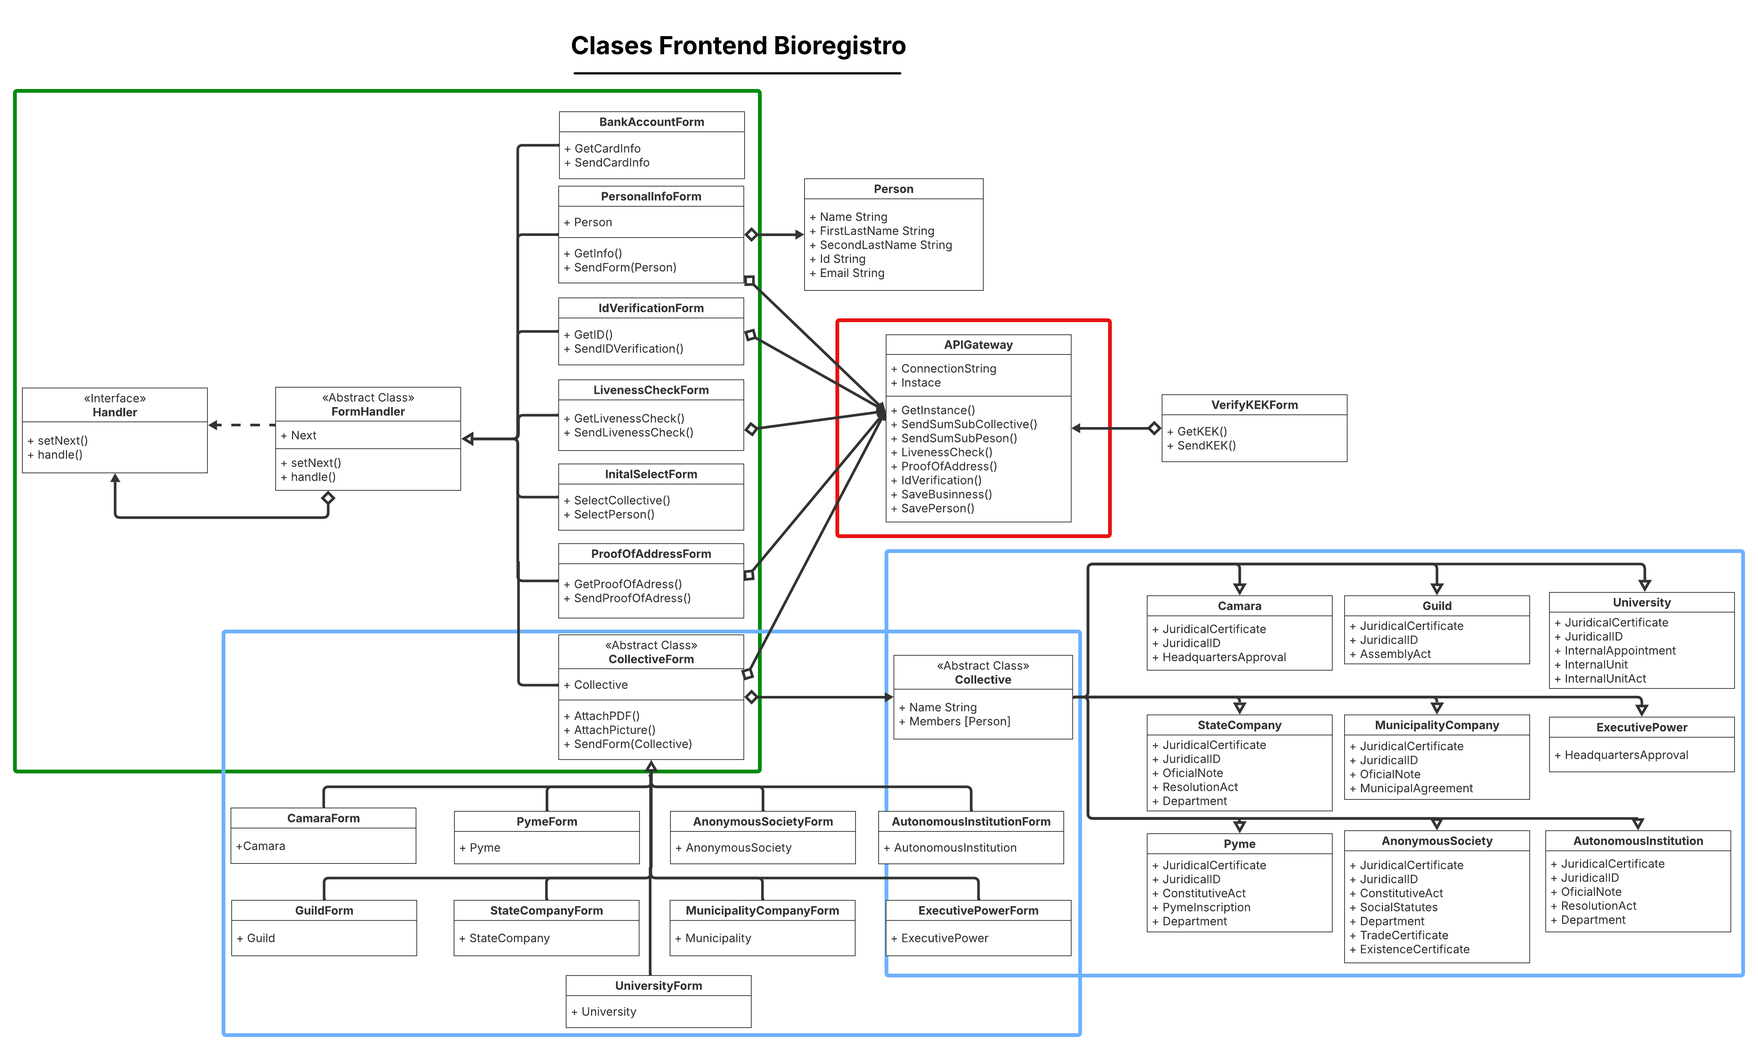
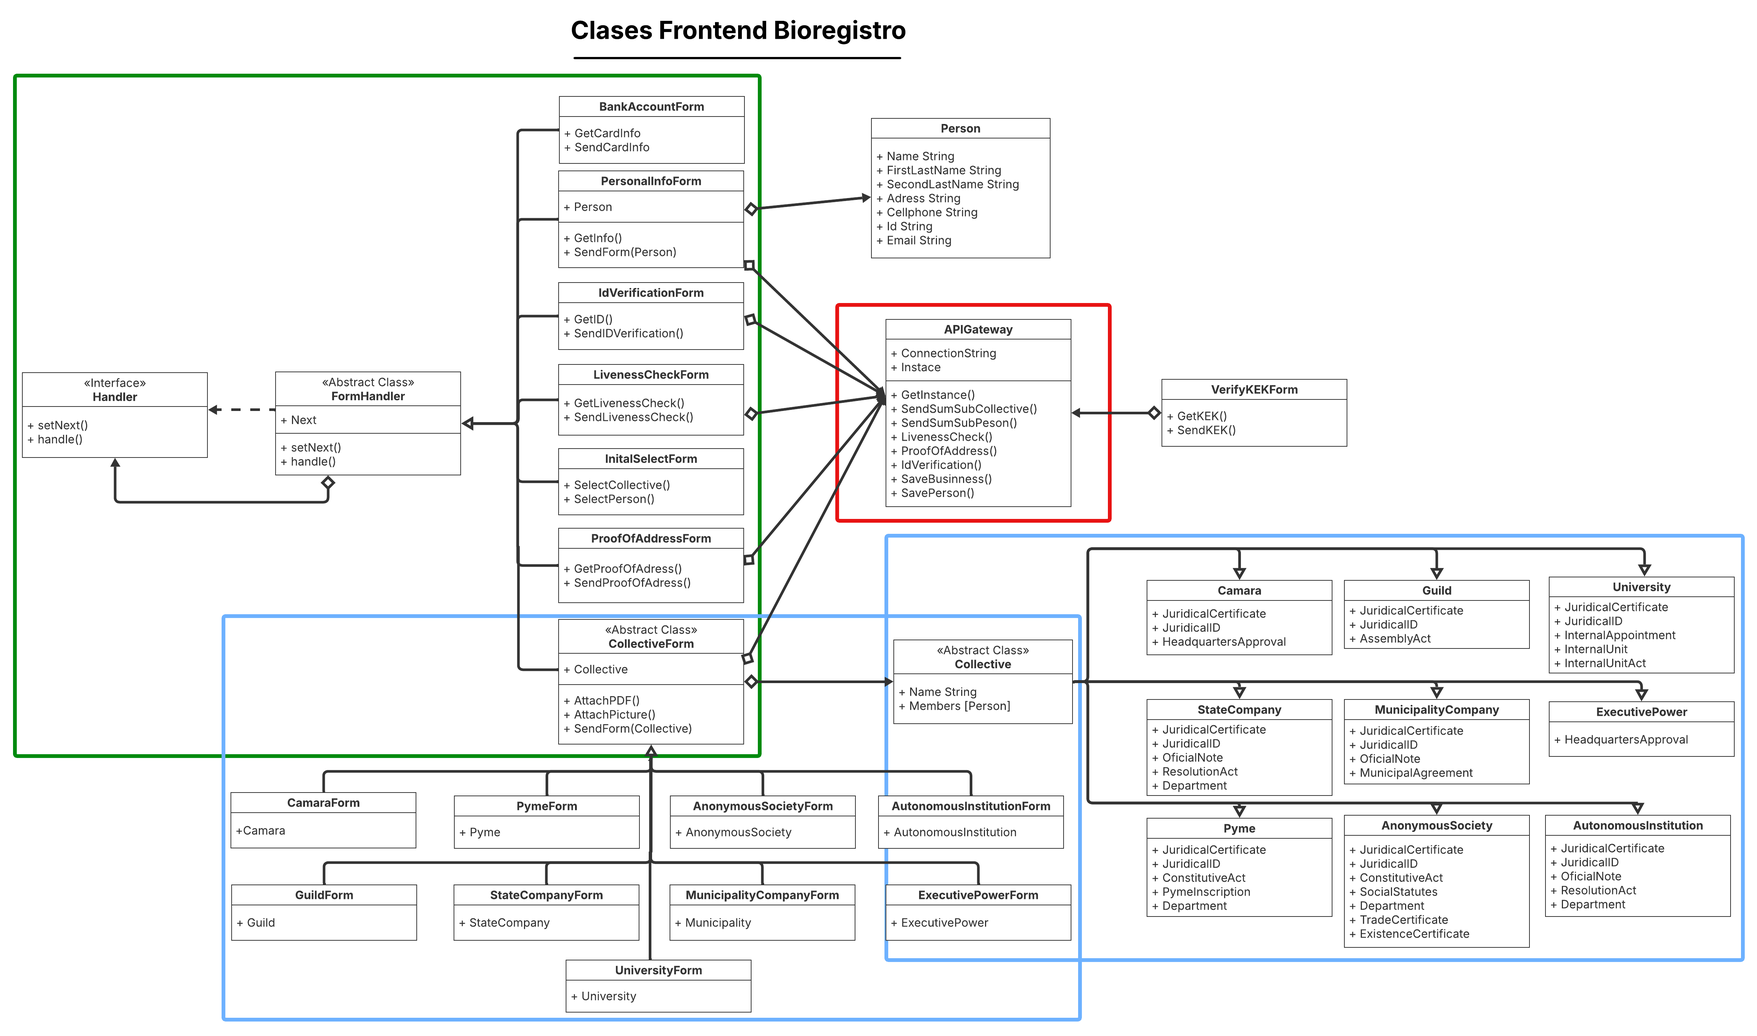
diagramas de clase listos

diff --git a/README.md b/README.md
@@ -2373,7 +2373,7 @@ Finalmente, se incluye una Lambda@Edge function que, antes de que CloudFront ent
 
 ##### Microservicios
 
-A continuación se dará una explicación de todos los microservicios correspondientes al FrontBioregistro.
+A continuación se dará una explicación de todos los microservicios correspondientes al Bioregistro.
 
 
 **1. identity-verification-service**
@@ -2422,7 +2422,7 @@ A continuación se muestra el flujo completo de interacción entre frontend y es
 }
 ```
 - El SumSubController dirige la carga al PersonService que se encargará de registrar el Applicant en SumSub y enviarle un UUID interno. Obtendrá de respuesta el Id interno de SumSub que se usará para realizar la verificación.
-- También en la tabla de SumSubApplicants se registrará el UUID interno, una fila llamada Approved en False, y todas las credenciales dadas. Esto permitirá que cuando las personas traten de registrarse solo puedan una ves este flag sea cambiado a True (Más detalles sobre el registro serán explicados en el registration-service).
+  - También en la tabla de SumSubApplicants se registrará el UUID interno, una fila llamada Approved en False, y todas las credenciales dadas. Esto permitirá que cuando las personas traten de registrarse solo puedan una ves este flag sea cambiado a True (Más detalles sobre el registro serán explicados en el registration-service).
 
 - Se retorna al frontend:
 ```json
@@ -2470,7 +2470,7 @@ https://data-pura-vida.com/register/person?token=<token_uuid>
 
 4. El proceso de verificación fue exitoso, se continua a registro.
 
-*Ahora, se muestra el flujo completo de interacción entre frontend y este componente para verificar un colectivo:*
+Ahora, se muestra el flujo completo de interacción entre frontend y este componente para verificar un colectivo:
 
 1. La persona representante del colectivo inicia el proceso de verificación:
 - Frontend llama a: POST /sumsub/collective/token:
@@ -2552,7 +2552,6 @@ https://data-pura-vida.com/collective-register?token=<token_uuid>
 
 Ahora bien, en el caso de colectivos, puede suceder que SumSub no encuentre al colectivo en sus bases de datos. Si esto ocurre, se habilita una opción de revisión manual, la cual envía un mensaje al notification-service a través de RabbitMQ. Este servicio notificará a los administradores, quienes podrán completar la verificación manual desde el portal web del backoffice.
 
-
 Previamente fue mencionado, pero a modo de aclaración cabe decir que los templates de revisión serán creados desde el SumSub Dashboard. con base en la información listada al inicio del capítulo. Posteriormente en el código podrán ser llamados de esta forma por medio de un request al API similar a este:
 
 ``` python
@@ -2604,10 +2603,8 @@ Este servicio es un facade de autenticación sobre Cognito, por el cuál los usu
   - /auth/login/mfa/resend Para poder reenviar los tokens MFA en caso de ser necesario
   - /auth/login/verify-mfa Para poder revisar que el MFA sea satisfactorio
   - /auth/logout: Para la gestión del Logout de la aplicación
-  - /auth/verify-token: Para verificar si un JWT token sigue siendo válido
 - CognitoService: Se encarga de abstraer las llamadas de signup, login, challenge y refresh.
 - MFAService:	Lógica para MFA (enviar y validar OTP por SMS/email).
-- SessionManager:	Control de sesiones activas, revocación de tokens, manejo de expiración.
 - AuthChoiceHandler:	Implementa lógica de choice-based auth (elegir entre OTP o pass).
 
 A continuación se muestra el flujo completo de inicio de sesión con MFA en la arquitectura:
@@ -2686,7 +2683,7 @@ A continuación se presenta el flujo de registro de una persona física:
 
 - Se hace un POST con /register/check-token, y se pasa el control a TokenManager para que se verifica si el query parameter de token: registration_token:<TOKEN_UUID> existe.
 
-- En dado caso puede ser usado como clave en redis con el prefijo de registration_token, y si retorna un UUID de la tabla de SumSubApplicant signfica que ya el usuario fue aprobado. Si no retorna nada significa que o bien el UUID Token cumplió su TTL de 24 horas, o que se está intentando ingresar al registro de manera no oficial.
+- En dado caso se usa como clave en redis con el prefijo de registration_token, y si retorna un UUID de la tabla de SumSubApplicant signfica que ya el usuario fue aprobado. Si no retorna nada significa que o bien el UUID Token cumplió su TTL de 24 horas, o que se está intentando ingresar al registro de manera no oficial.
 
 - Se retorna al frontend:
 
@@ -2843,11 +2840,10 @@ En el habrán los siguientes componentes:
  - /encrypt/collective: Recibe el Token UUID desde el registration-service.
  - /encrypt/verify/user: Por medio de este endpoint el usuario representante manda su kek para su aprobación.
  - /encrypt/verify/admin: Por medio de este endpoint el usuario administrador manda su kek para aprobar a un representante.
- - /encrypt/verify/dpv: Por este endpoint, desde el backoffice Data Pura Vida da su aprobación.
 - EncryptionManager: Este componente se encarga del proceso de encripción.
 - DecryptionManager: Este componente se encarga del proceso de desencriptado.
 - Generator: Este componente se encarga de generar las DEKs y KEKs.
-- Verificator: Se encarga de verificar a un representante.
+  - Verificator: Se encarga de verificar a un representante.
 
 A continuación algunos flujos del microservicio que muestrán cuando y donde se usa. Primeramente, el proceso de generación de KEKs y DEKs.
 
@@ -2879,7 +2875,6 @@ A continuación algunos flujos del microservicio que muestrán cuando y donde se
 
 -Cabe aclarar que el proceso de encripción a utilizar es un AES-GCM, que posee la robustes de AES y además da un tag que dice la validez de la encripción, para evitar que se hagan modificaciones (es como un checksum)
 
-- El EncryptionManager manager genera todas las llaves necesarias del siguiente modo:
 
 ```Python
 from cryptography.hazmat.primitives.ciphers import Cipher, algorithms, modes
@@ -3017,7 +3012,7 @@ def verify_keks(kek_user, kek_admin, kek_dpv, dek_user, dek_admin, dek_dpv ):
         print("Aprobado test tripartita")
     else:
         print("Falló el test tripartita")
-    ```
+```
 
 3. En caso de que las tres llaves coincidan entonces se aprueba la validación y se actualiza el estado del representante en Postgres a Aprobado. Además se comunica con rabbitMQ y el notification-service para que envie un correo al usuario para que sepa que su kek fue aprobado.
 
@@ -3101,7 +3096,7 @@ def send_email(to_address, subject, body_html, body_text):
         raise
 ```
 
-En cuanto al manejo de notificaciones dentro de la aplicación web, el flujo en el notification-service será el siguiente:
+  En cuanto al manejo de notificaciones dentro de la aplicación web, el flujo en el notification-service será el siguiente:
 
 1. Cuando llega un mensaje a las colas manual-verification o verify-kek:
 
@@ -3116,28 +3111,197 @@ En cuanto al manejo de notificaciones dentro de la aplicación web, el flujo en 
 - En caso de encontrar notificaciones, las recupera, las envía al usuario y luego las elimina de DynamoDB. Si no hay notificaciones, no se realiza ninguna acción adicional.
 
 
+##### Diagramas de Clases
+
+En esta sección se presentarán los distintos diagramas de clase correspondientes a cada microservicio descrito en la sección anterior. Para cada uno se explicará además cuales patrones de diseño fueron implementados. Además, cabe aclarar que en algunos microservicios aparecerán clases que ya se habían utilizado en otros. A nivel del diagrama, estas clases se muestran duplicadas para mayor claridad, pero en el código serán reutilizadas.
+
+**1. identity-verification-service**
+
+Primeramente, los patrones de diseño orientados a objetos utilizados son los siguientes:
+
+- Morado: Representa un facade.
+- Amarillo: Representa un observer.
+- Naranja: Representa un dependency injection.
+- Verde: Representa un strategy.
+- Celeste: Muestra un factory.
+- Café: Representa un singleton.
+
+Ahora bien, las clases están organizadas de la siguiente manera:
+
+El punto de entrada es el SumSubController, que actúa como facade para que otros microservicios y el API general del backend se comuniquen con este microservicio. Este controlador delega las llamadas a un observer mediante el EventManager, encargado de notificar a la lógica de negocio correspondiente según el tipo de llamada realizada al SumSubController.
+
+Dentro de esa lógica se encuentran el WebHookProcessor, PersonService y CollectiveService, que reciben como dependencias los servicios de la segunda capa de facade.
+
+En esta segunda capa se encuentran:
+
+- RabbitMQMessager: abstrae el envío de mensajes al exchange del bioregistro.
+- SumSubService: encapsula toda la comunicación con el sistema externo de SumSub.
+- ApplicantService: se encarga de las operaciones sobre los aplicantes en RDS.
+- TokenManager: gestiona la generación de tokens y su almacenamiento en Redis.
+- DocumentManager: cambia dinámicamente entre S3Factory y DynamoFactory para guardar documentos.
+
+Finalmente, existe una capa de repositorios gestionada mediante el patrón Factory. Además, cada conexión se maneja utilizando el patrón Singleton.
+
+![identity clases](img/ClasesBioregistro1.png)
+
+**2. auth-service**
+
+Primeramente, los patrones de diseño orientados a objetos utilizados son los siguientes:
+
+- Morado: Representa un facade.
+- Amarillo: Representa un observer.
+- Naranja: Representa un dependency injection.
+- Verde: Representa un strategy.
 
 
-**Configuración de Hardware:**
-EKS abstrae la infraestructura subyacente. Se configurarán grupos de con instancias EC2.
+Ahora bien, las clases tienen un funcionamiento muy simple, el punto de entrada es AuthController, que actúa como facade para que el API general pueda acceder al microservicio. Luego el EventManager se encarga de distribuir según lo que se pidio al AuthController. En este caso es el AuthChoiceHandler el que escucha, y decide cual es el tipo de login que se solicitó. Luego están las clases de MFAService y CognitoService  que se encargan de comunicarse con Cognito
 
-- **Versión de Kubernetes:** 1.29 (o la más reciente compatible).
-- **Tipo de nodo:** Amazon EC2.
-- **Tipo de instancia:** t3.medium (2 vCPU, 4 GB RAM) o superior.
-- **Almacenamiento:** AWS S3 para almacenamiento de objetos y datasets.
+![identity clases](img/ClasesBioregistro2.png)
+
+**3. registration-service**
+
+Primeramente, los patrones de diseño orientados a objetos utilizados son los siguientes:
+
+- Morado: Representa un facade.
+- Amarillo: Representa un observer.
+- Naranja: Representa un dependency injection.
+- Verde: Representa un strategy.
+- Celeste: Muestra un factory.
+- Café: Representa un singleton.
+
+Ahora bien, las clases están organizadas de la siguiente manera:
+
+El punto de entrada es el RegistrationController, que actúa como facade para que otros microservicios y el API general del backend se comuniquen con este microservicio. Este controlador delega las llamadas a un observer mediante el EventManager, encargado de notificar a la lógica de negocio correspondiente según el tipo de llamada realizada al RegistrationController.
+
+Dentro de esa lógica se encuentran el TokenManager, PersonRegistrationService y CollectiveRegistrationService, que reciben como dependencias los servicios de la segunda capa de facade.
+
+En esta segunda capa se encuentran:
+
+- RabbitMQMessager: abstrae el envío de mensajes al exchange del bioregistro.
+- Cognito: encapsula toda la comunicación con Cognito.
+- RegApplicantService: se encarga de las operaciones sobre los aplicantes en RDS.
+- TokenCoordinator: gestiona la generación de tokens y su almacenamiento en Redis.
+- DocumentManager: cambia dinámicamente entre S3Factory y DynamoFactory para guardar y traer documentos.
+
+Finalmente, existe una capa de repositorios gestionada mediante el patrón Factory. Además, cada conexión se maneja utilizando el patrón Singleton.
+
+![identity clases](img/ClasesBioregistro3.png)
+
+
+**4. key-management-service**
+
+Primeramente, los patrones de diseño orientados a objetos utilizados son los siguientes:
+
+- Morado: Representa un facade.
+- Amarillo: Representa un observer.
+- Naranja: Representa un dependency injection.
+- Celeste: Muestra un factory.
+- Café: Representa un singleton.
+
+Ahora bien, las clases están organizadas de la siguiente manera:
+
+El punto de entrada es el KeyManagementController, que actúa como facade para que otros microservicios y el API general del backend se comuniquen con este microservicio. Este controlador delega las llamadas a un observer mediante el EventManager, encargado de notificar a la lógica de negocio correspondiente según el tipo de llamada realizada al KeyManagementController.
+
+Dentro de esa lógica se encuentran el Generator y Verificator, que reciben como dependencias los servicios de la segunda capa de facade.
+
+En esta segunda capa se encuentran:
+
+- RabbitMQMessager: abstrae el envío de mensajes al exchange del bioregistro.
+- PersonService: encapsula las llamadas a las tablas de personas en RDS.
+- EncryptionManager: se encarga de las operaciones de encripcion de DEkS y creacion de KEKs.
+- DecryptionManager: se encarga de las operaciones Desencripcion de DEKs.
+- DekService: gestiona el acceso a DEKs parciales en RDS.
+- RedisController: Controla las operaciones de extraccion de UUIDs, guardado y salvado de KEKs.
+
+Finalmente, existe una capa de repositorios gestionada mediante el patrón Factory. Además, cada conexión se maneja utilizando el patrón Singleton.
+
+![identity clases](img/ClasesBioregistro4.png)
+
+
+**5. notification-service**
+
+Primeramente, los patrones de diseño orientados a objetos utilizados son los siguientes:
+
+- Morado: Representa un facade.
+- Celeste: Muestra un factory.
+- Verde: Representa un strategy.
+
+Ahora bien, las clases están organizadas de la siguiente manera:
+
+Se cuenta con una clase abstracta QueueListener que provee la lógica y conexión a RabbitMQ. Esta clase es reutilizada por dos componentes principales:
+
+- EmailSender: escucha mensajes destinados a ser reenviados por correo electrónico a través de AWS SES utilizando el SESService.
+- NotificationConsumer: detecta la llegada de nuevas notificaciones que deben mostrarse dentro de la aplicación.
+
+Además, existe una capa encargada de escuchar conexiones de usuarios al frontend para enviar notificaciones en tiempo real mediante el WebSocketController. En segundo plano, el NotificationConsumer verifica si llegan nuevas notificaciones. Si el usuario está conectado, se le muestran inmediatamente; de lo contrario, se almacenan en DynamoDB a través del NotificationManager, para que en la próxima conexión el WebSocketController se las muestre.
+
+Finalmente, existe una capa de repositorios gestionada mediante el patrón Factory. Cada conexión es manejada utilizando el patrón Singleton.
+
+![identity clases](img/ClasesBioregistro5.png)
+
+
+##### Servicios en AWS
+
+A continuación se presentan todos los servicios AWS con los que se operará en los microservicios del Bioregistro, además se listarán las configuraciones de hardware para cada uno
+
+**EKS**
+Será el lugar donde estarán contenerizados los distintos microservicios.
+
+- **Configuración de Hardware:**
+  - **Versión de Kubernetes:** 1.29 (o la más reciente compatible).
+  - **Tipo de nodo:** Amazon EC2.
+  - **Tipo de instancia:** t3.medium (2 vCPU, 4 GB RAM) o superior.
+
+
+**RDS**
+Base de datos relacional para almacenar datos estructurados de la aplicación. Se entrará en más detalle en el diseño de los datos.
+
+- **Configuración de Hardware:**
+  - **Motor:** PostgreSQL (o MySQL, MariaDB según necesidad).
+  - **Versión:** PostgreSQL 15 (o la más reciente estable compatible).
+  - **Tipo de instancia:** db.t3.medium (2 vCPU, 4 GB RAM) o superior.
+  - **Almacenamiento:** General Purpose SSD (gp3) con tamaño escalable según la carga.
+  - **Multi-AZ:** Activado para alta disponibilidad.
+
+**DynamoDB**
+Base de datos NoSQL escalable para almacenamiento de datos con acceso rápido y flexible. Se entrará en más detalle en el diseño de los datos.
+
+- **Configuración:**
+  - **Modo de capacidad:** On-Demand.
+  - **Streams:** Habilitados para replicación o integración con otros servicios.
+
+
+**S3**
+Almacenamiento de objetos para archivos, backups y datos estáticos.
+
+-**Configuración:**
+  - **Versionado:** Activado para control de versiones y recuperación de datos.
+  - **Lifecycle policies:** Para transición a almacenamiento más barato (Glacier) o eliminación automática.
+
+
+**AWS SES**
+Servicio para envío de correos electrónicos confiables y escalables.
+
+- **Configuración:**
+  - **Región:** us-east-1.
+  - **Identidad verificada:** Dominios y correos electrónicos verificados.
+  - **Políticas de envío:** Limitaciones y tasas configuradas para evitar bloqueos.
+  - **Autenticación:** SPF, DKIM y DMARC configurados para mejorar entregabilidad.
+
+
+**Amazon ElastiCache (Redis)**
+Se usará para albergar el servicio de redis. Se entrará en más detalle en el diseño de los datos.
+
+- **Configuración de Hardware:**
+  - **Modo de cluster:** Cluster mode enabled para sharding o disabled para despliegues pequeños.
+  - **Versión:** Redis 7.x o la más reciente estable compatible.
+  - **Tipo de instancia:** cache.t3.medium (2 vCPU, 4 GB RAM) o superior.
+  - **Multi-AZ:** Activado para alta disponibilidad (opcional).
+  - **Seguridad:** VPC privada, grupos de seguridad restrictivos y cifrado en tránsito y en reposo activados.
 
 
 
-**AWS Lambda:**
-Para funciones serverless que realicen tareas específicas y de corta duración, como el procesamiento de notificaciones o tareas de validación asíncronas.
 
-**Configuración de Hardware:**  Aunque no gestionamos hardware directamente, sí configuraremos los recursos, como:
-- **Memoria:** 1024 MB
-- **Arquitectura:** arm64
-- **Tiempo de ejecución:** Node.js 22.x
-- **Almacenamiento efímero:** 512MB
-- **Tiempo de espera:** 5s
-- **Retry attempts:** 1
 
 ##### Sistema de Monitoreo
 El monitoreo del componente Bioregistro se implementará siguiendo una estrategia de observabilidad integral que permita supervisar en tiempo real el comportamiento, rendimiento y seguridad del microservicio. Esta estrategia se alinea con las tecnologías definidas en el stack tecnológico del proyecto.
@@ -3494,10 +3658,10 @@ La protección de la información crítica del módulo Bioregistro implica conta
     - Utilizaremos un S3 Bucket como almacenamiento de objetos para guardar PDFs y documentos legales sobre las organizaciones.
     - Usaremos DynamoDB como base de datos documental, en ella se almacenará la metadata correspondiente a los documentos en el S3, y también los distintos datos no estructurados que tienen los distintos colectivos. No utilizaremos los servicios de Global Tables ya que el acceso al sistema es principalmente desde Costa Rica. Por lo que solo usaremos 1 region: us-east-1.
     - Cabe aclarar que el Id para las personas físicas será el mismo en Cognito y RDS, mientras que el Id de los colectivos será el mismo tanto en RDS como en Dynamo.
-
+    - También se implementará el uso de Redis por medio de Amazon Elastic Caché. Se usará el modo Clustered para garantizar mayor escalamiento, y se configurará dentro de la misma VPC de los microservicios del Bioregistro, para que así seolo pueda ser accedida desde ahí.
 - **Tecnología Cloud**:
   - RDS
-  - RDS
+  - DynamoDB
   - CloudWatch: Para el monitoreo de dichos servicios de AWS
 
 - **Polítcias y Reglas**:

diff --git a/EstructuraDisenoComponentes.md b/EstructuraDisenoComponentes.md
@@ -18,14 +18,12 @@ Además cabe aclarar que cada sección no aplica necesariamente para todos los c
 
 ----
 - Diseño del Backend
-  - Servicios de AWS: cuales servicios se usarán, y que configuración de hardware necesitan.
-  - Microservicios en el Componentes: Listar cuales microservicios están en cada componente, por ejemplo, en el bioregistro hay un microservicio de interacción con SumSub, o en el Motor de Transformaación hay un microservicio de merging de tablas. Aquí también aplica hablar en que partes y como se usará Event-Driven si es necesario. Además de listarlos hay que decir que hacen y explicar que herramientas van a utilizar (Por ejemplo, el merger del motor de transformación usa spark para transformar N tablas en solo 1).
+  - Microservicios en el Componentes: Listar cuales microservicios están en cada componente, por ejemplo, en el bioregistro hay un microservicio de interacción con SumSub, o en el Motor de Transformaación hay un microservicio de merging de tablas. Aquí también aplica hablar en que partes y como se usará Event-Driven si es necesario. Además de listarlos hay que decir que hacen y explicar que herramientas van a utilizar (Por ejemplo, el merger del motor de transformación usa spark para transformar N tablas en solo 1). Acá también va implicito el aporte al api gateway por que hay que decir cuales endpoints expone. 
   - Diagrama de Clases
-  - Explicación de las capas: Pueden variar, pero pueden ser de lógica de negocio, persistencia, handlers, etc.
+  - Servicios de AWS: cuales servicios se usarán, y que configuración de hardware necesitan.
   - Monitoreo: Define como se va a monitorear, usualmente los microservicios es con Prometheus, y los servicios de AWS con CloudWatch, pero especificar como.
   - Modelo de seguridad detallado: encriptación, auditoría, logging seguro. Solo si aplica.
   - Elementos de Alta Disponibilidad: Cómo se va a garantizar la disponibilidad del sistema, por ejemplo, con réplicas, load balancing, etc.
-  - Aporte al API Gateway: Ya que el API Gateway es la misma para todo el backend especificar que aporta este módulo a ella
   - Diagrama del Backend
 
 ----

diff --git a/BacklogParaBackend.md b/BacklogParaBackend.md
@@ -1,5 +1,17 @@
-##### Microservicios
+  ##### Microservicios
 
+
+
+**AWS Lambda:**
+Para funciones serverless que realicen tareas específicas y de corta duración, como el procesamiento de notificaciones o tareas de validación asíncronas.
+
+**Configuración de Hardware:**  Aunque no gestionamos hardware directamente, sí configuraremos los recursos, como:
+- **Memoria:** 1024 MB
+- **Arquitectura:** arm64
+- **Tiempo de ejecución:** Node.js 22.x
+- **Almacenamiento efímero:** 512MB
+- **Tiempo de espera:** 5s
+- **Retry attempts:** 1
 
 
 #####  Explicación de las capas – Diseño del Backend del Bioregistro
